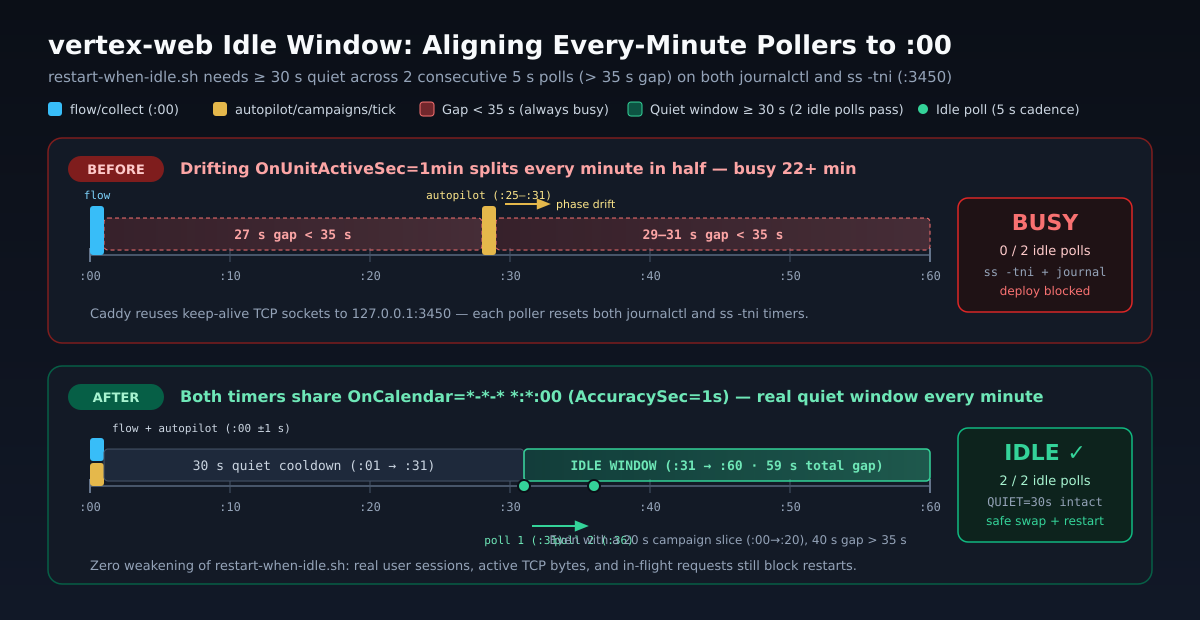
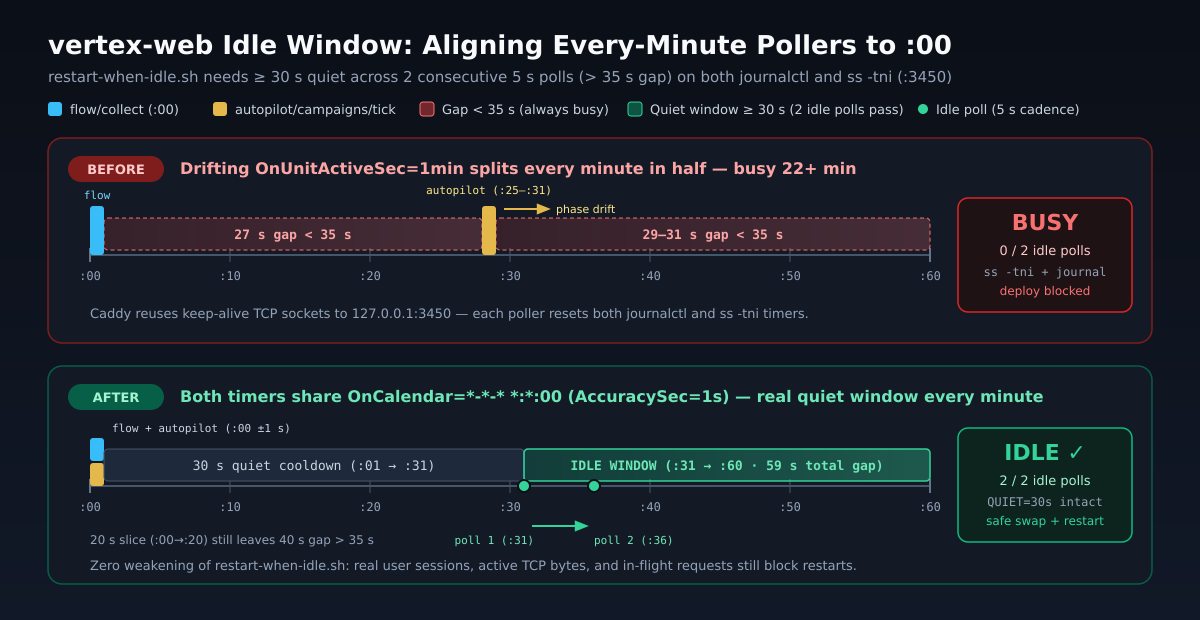
fix(infra): fix diagram label overlap and split-minute streak test
- Resolve review Finding 1: separate AFTER panel labels in before-after.svg and raise BEFORE autopilot label above the drift arrow; re-render before-after.png and visually confirm zero overlap.
- Resolve review Finding 2: update split-minute test in infra/quantvps/restart-when-idle.test.ts to exercise the real :00/:28 two-poll streak reset (:58 idle poll 1 reset by :00 tick before :03 poll 2).

Changed region(s): [[0.37, 0.8581, 0.74, 0.8887], [0.3392, 0.3065, 0.5242, 0.3677], [0.0925, 0.8581, 0.3083, 0.8887]]

diff --git a/infra/quantvps/restart-when-idle.test.ts b/infra/quantvps/restart-when-idle.test.ts
@@ -370,22 +370,30 @@ describe("restart flow", () => {
     expect(result.alerts).toEqual([]);
   });
 
-  it("never restarts when split-minute pollers keep every gap under 30 s", () => {
-    // Pollers at :00 (1000) and :28 (1028) keep the last activity under 30 s at every poll.
-    const splitBusy = [
-      "@@NOW 1055",
-      "@@ACTIVE active",
-      "@@LAST 1028",
-      "0 0 127.0.0.1:3450 127.0.0.1:42318",
-      "\t cubic bytes_sent:1024 bytes_received:512 lastsnd:27000 lastrcv:27000",
-      "@@END",
-    ].join("\n");
-    setup({ probe: splitBusy });
+  it("never restarts when split-minute pollers prevent two consecutive idle polls", () => {
+    // Pollers at :00 (1000) and :28 (1028) leave a 32 s second half (<35 s two-poll window):
+    // :58 scores one 30 s idle poll, then the :00 tick resets the streak before poll 2 at :03.
+    const probeAt = (now: number, last: number): string => {
+      const ageMs = (now - last) * 1000;
+      return [
+        `@@NOW ${now}`,
+        "@@ACTIVE active",
+        `@@LAST ${last}`,
+        "0 0 127.0.0.1:3450 127.0.0.1:42318",
+        `\t cubic bytes_sent:1024 bytes_received:512 lastsnd:${ageMs} lastrcv:${ageMs}`,
+        "@@END",
+      ].join("\n");
+    };
+    setup({
+      "probe.1": probeAt(1058, 1028),
+      probe: probeAt(1063, 1060),
+    });
     const result = run([], { VERTEX_RESTART_GIVE_UP_AFTER: "0" });
     expect(result.status).toBe(4);
+    expect(result.calls.filter((call) => call === "probe")).toHaveLength(2);
     expect(result.calls).not.toContain("restart");
     expect(result.stdout).toContain(
-      "last log line 27 s ago (quiet window 30 s)"
+      "last log line 3 s ago (quiet window 30 s)"
     );
   });
 
